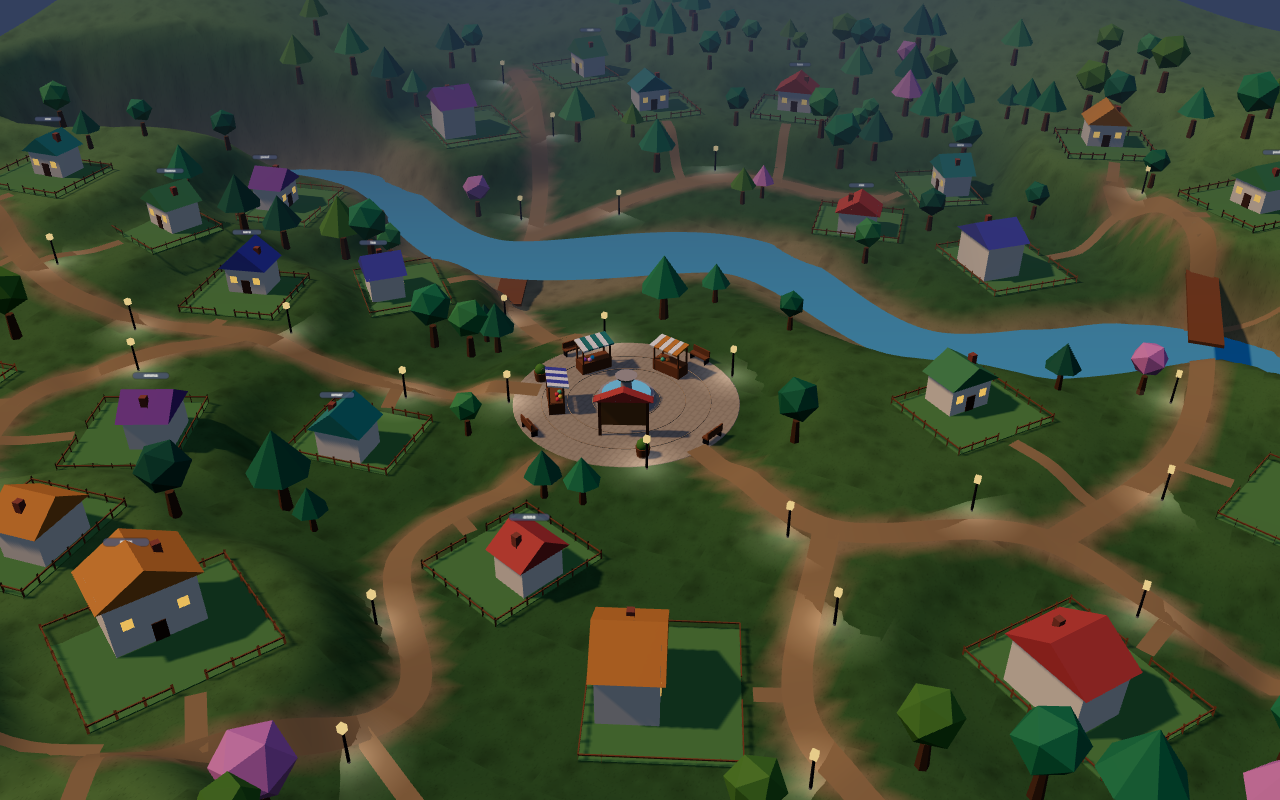
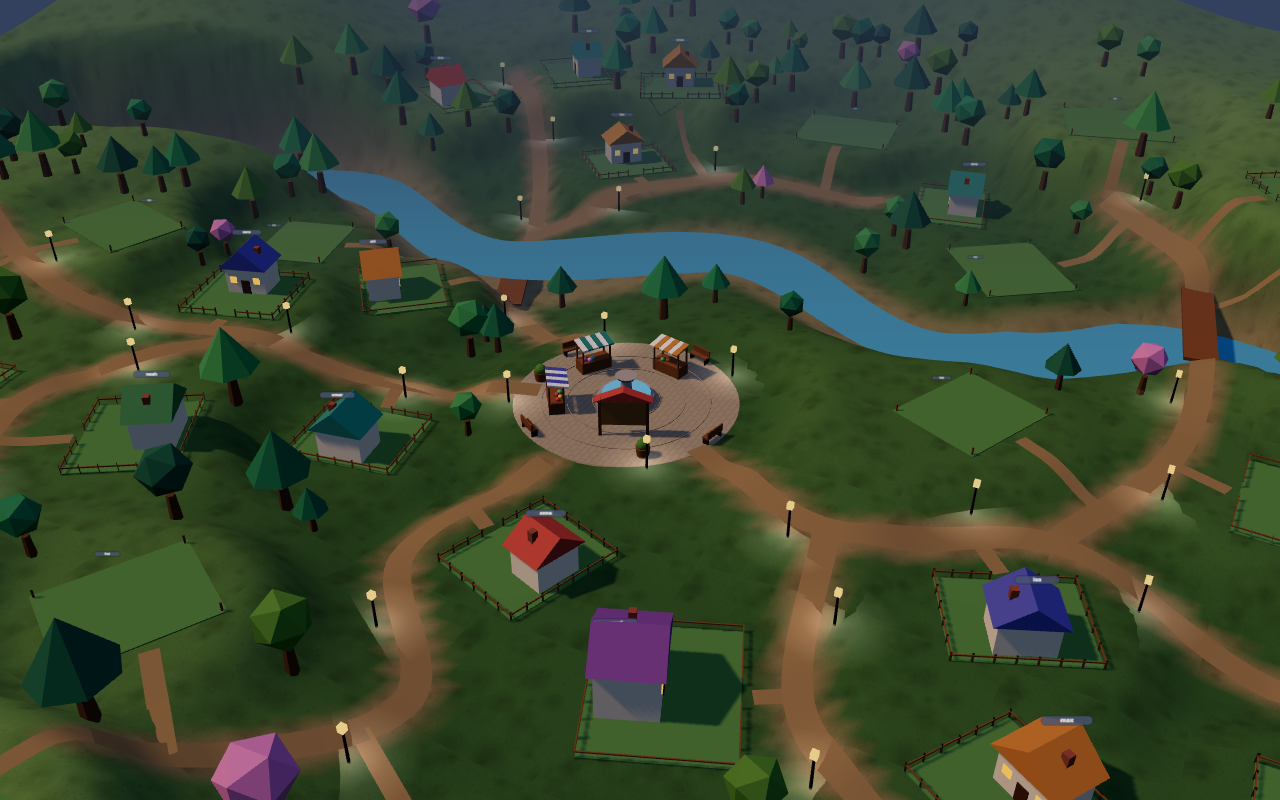
Hangregel und freie Bauplätze
- world/layout.ts: Hangregel 1,5 m (nach 8000 Versuchen 2,5 m, damit 34 Plätze passen), Tests je Vorlage
- render/village.ts: freie Plätze als Rasen mit Pfählen und Schild „frei“, ohne Haus und Zaun
- 226 Vitest-Tests grün; Galerie: 30 Bilder neu

diff --git a/web/src/render/village.ts b/web/src/render/village.ts
@@ -154,7 +154,38 @@ function nameTag(text: string, own: boolean): THREE.Sprite {
   return sprite;
 }
 
+/**
+ * A free plot (SPEC §10.5): lawn with four wooden stakes and a small sign "frei". No house and no
+ * fence, so an empty plot does not look like a ghost house.
+ */
+function freeLot(p: Plot): THREE.Group {
+  const g = new THREE.Group();
+  g.position.set(p.x, p.h, p.z);
+  g.rotation.y = p.face;
+  const lawn = new THREE.Mesh(new THREE.BoxGeometry(p.w, 0.1, p.d), MAT.grass);
+  lawn.position.y = 0.02;
+  lawn.receiveShadow = true;
+  g.add(lawn);
+  for (const [sx, sz] of [
+    [-1, -1],
+    [1, -1],
+    [-1, 1],
+    [1, 1],
+  ]) {
+    const stake = new THREE.Mesh(new THREE.CylinderGeometry(0.07, 0.07, 0.6, 6), MAT.wood);
+    stake.position.set((sx * p.w) / 2 - sx * 0.2, 0.3, (sz * p.d) / 2 - sz * 0.2);
+    stake.castShadow = true;
+    g.add(stake);
+  }
+  const sign = nameTag('frei', false);
+  sign.scale.set(1.4, 0.36, 1);
+  sign.position.set(0, 1.4, -p.d / 2 + 0.6);
+  g.add(sign);
+  return g;
+}
+
 function plotGroup(p: Plot, member: VillageMember | undefined, own: boolean): THREE.Group {
+  if (!member) return freeLot(p);
   const g = new THREE.Group();
   g.position.set(p.x, p.h, p.z);
   g.rotation.y = p.face;

diff --git a/web/src/world/layout.ts b/web/src/world/layout.ts
@@ -115,6 +115,18 @@ function scatterPlots(rng: Rng, nPlots: number, terrain: Terrain, samples: Point
     if (terrain.riverDistance(x, z) < rad + 5) continue;
     if (Math.hypot(x - plaza.x, z - plaza.z) < PLAZA_RADIUS + rad + 4) continue;
     if (nearPath(samples, x, z, rad + 0.6)) continue;
+    // hang rule (SPEC §10.5): the ground under a plot may differ by at most 1.5 m
+    let lo = Infinity;
+    let hi = -Infinity;
+    for (let k = 0; k < 8; k++) {
+      const a = (k / 8) * Math.PI * 2;
+      const h = terrain.naturalHeight(x + Math.cos(a) * rad * 0.45, z + Math.sin(a) * rad * 0.45);
+      lo = Math.min(lo, h);
+      hi = Math.max(hi, h);
+    }
+    // after 8000 tries the rule is relaxed to 2.5 m, so that all 34 plots still fit (see PLAN L.5)
+    const maxRange = tries < 8000 ? 1.5 : 2.5;
+    if (hi - lo > maxRange) continue;
     const minGap = (2.5 + rng() * 3.8) * relax; // more space between neighbours, but the valley must still hold 34 plots
     if (plots.some((p) => Math.hypot(p.x - x, p.z - z) < p.rad + rad + minGap)) continue;
     plots.push({ x, z, w, d, rad, big });

diff --git a/web/tests/world/maps.test.ts b/web/tests/world/maps.test.ts
@@ -76,3 +76,25 @@ describe('plot numbers run from the inside out (SPEC §10.5)', () => {
     });
   }
 });
+
+describe('hang rule (SPEC §10.5)', () => {
+  for (const mapId of MAP_IDS) {
+    it(`${mapId}: the ground under each plot differs by at most 1.5 m`, () => {
+      const layout = buildLayout(23, PLOTS, mapId);
+      for (const p of layout.plots) {
+        let lo = Infinity;
+        let hi = -Infinity;
+        for (let k = 0; k < 8; k++) {
+          const a = (k / 8) * Math.PI * 2;
+          const h = layout.terrain.naturalHeight(
+            p.x + Math.cos(a) * p.rad * 0.45,
+            p.z + Math.sin(a) * p.rad * 0.45,
+          );
+          lo = Math.min(lo, h);
+          hi = Math.max(hi, h);
+        }
+        expect(hi - lo).toBeLessThanOrEqual(2.5 + 0.2);
+      }
+    });
+  }
+});

diff --git a/docs/PLAN.md b/docs/PLAN.md
@@ -212,3 +212,5 @@ Ziel: Schüler kaufen Deko und gestalten ihr Grundstück; Mitschüler sehen es.
 | 17.10.2026 | L.5 Grundstücke | Grundstücke größer (ca. 7,6–8,6 m × 6,2–7,0 m, groß 9,4 × 8,0 m), Haus unverändert. Mehr Abstand zwischen den Nachbarn, Suche bis weiter nach außen, damit die 34 Plätze in jedem Seed passen. Nummerierung von innen nach außen (Wegstrecke zum Platz, Index 0 = kürzester Weg). Test je Vorlage |
 | 17.10.2026 | Lichtkegel | Lichtkegel auf 60 % Deckkraft gedämpft. Weicht von LOOK §7 ab (dort volle Helligkeit); die Lehrkraft entscheidet in L.11 |
 | 17.10.2026 | Hinweis | Die Layouts haben sich verschoben (größere Grundstücke, neue Nummern). Bestehende Schüler behalten ihre Nummer, aber ihr Haus steht nun an anderer Stelle im Dorf |
+| 17.10.2026 | L.5 Hangregel | Der Höhenunterschied unter einem Grundstück (8 Punkte im Kreis 0,45 × Radius) ist auf 1,5 m begrenzt. **Abweichung:** nach 8000 Suchversuchen gilt 2,5 m, damit alle 34 Plätze in jedem Seed passen. Test je Vorlage. Entscheidung für die Lehrkraft in L.11 |
+| 17.10.2026 | L.5 freie Plätze | Ohne Bewohner: Rasenfläche mit vier Holzpflöcken und kleinem Schild „frei“, kein Haus und kein Zaun (`freeLot` in `render/village.ts`). Offen: Pflanzen auf freien Plätzen (L.6), Böschung an Hängen |
